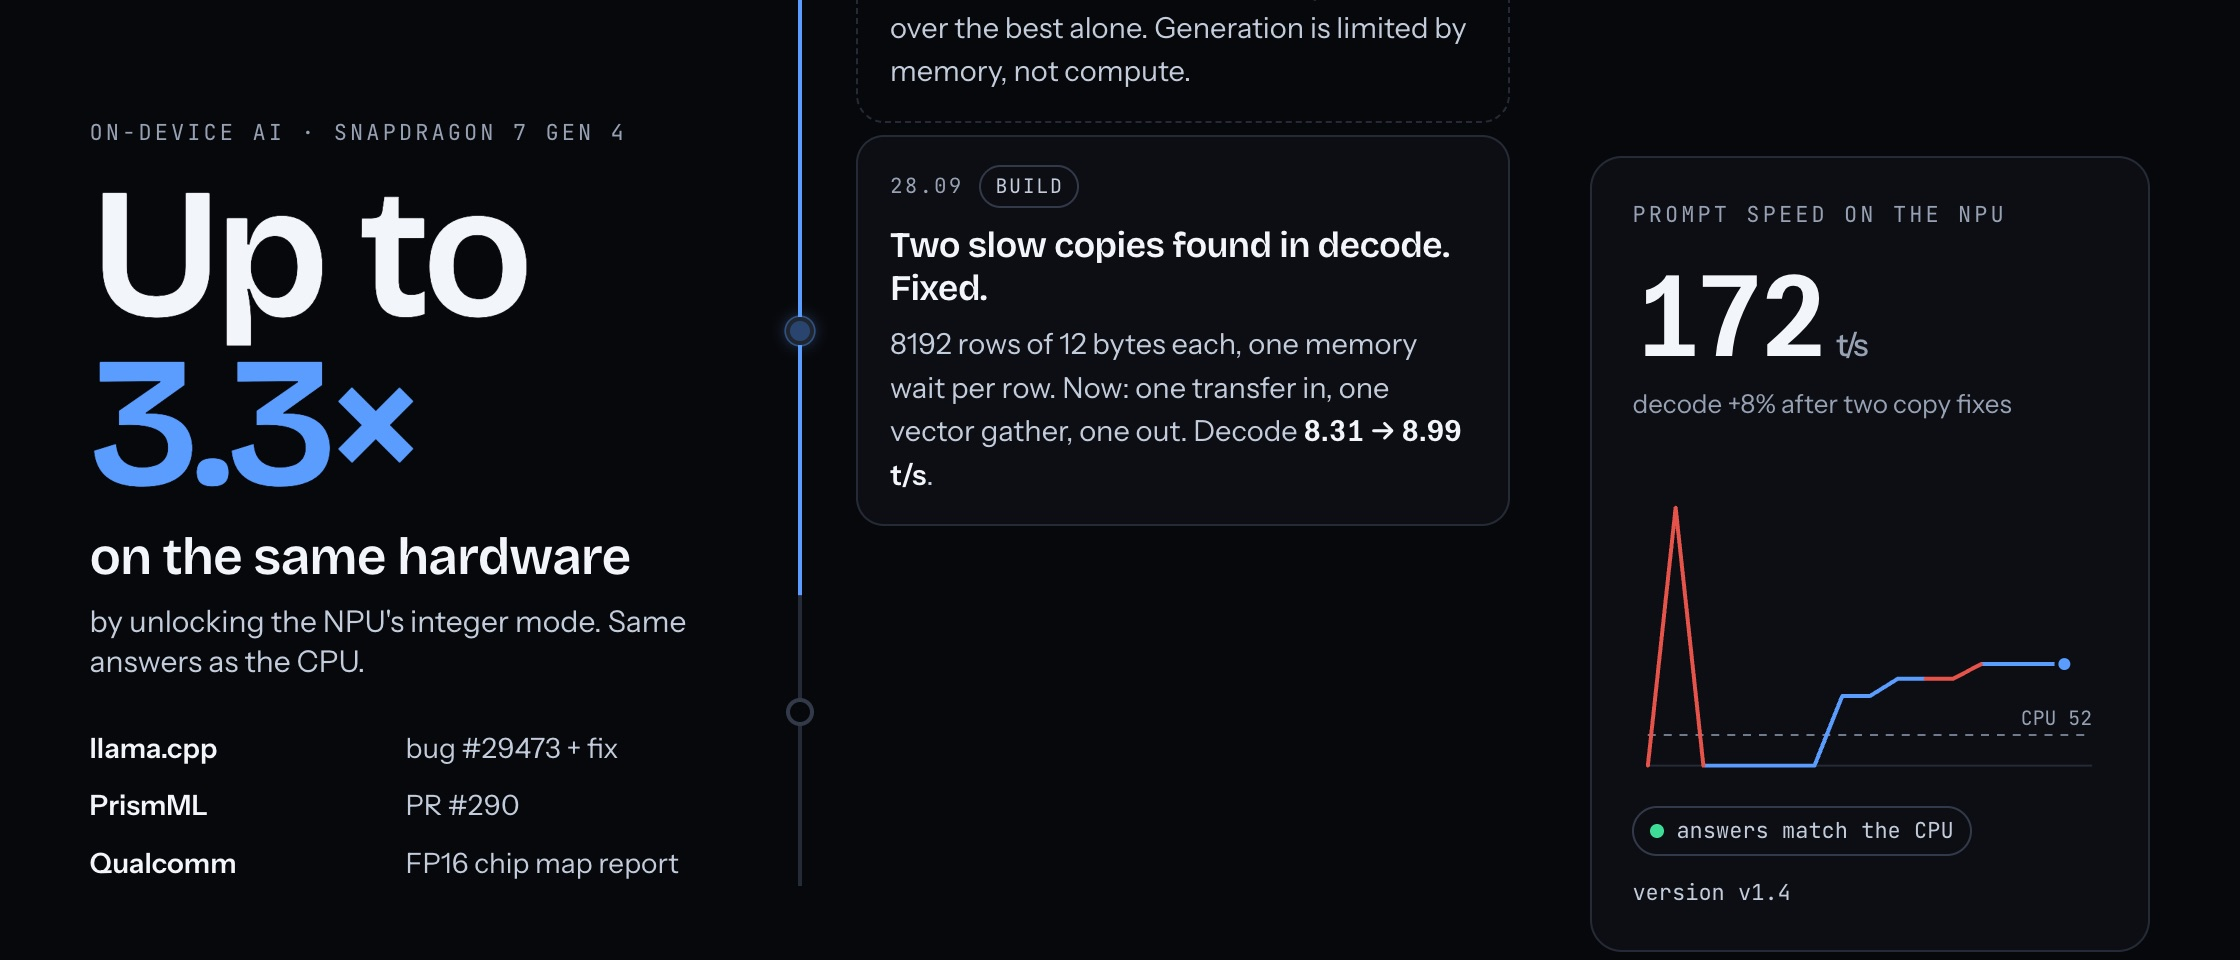
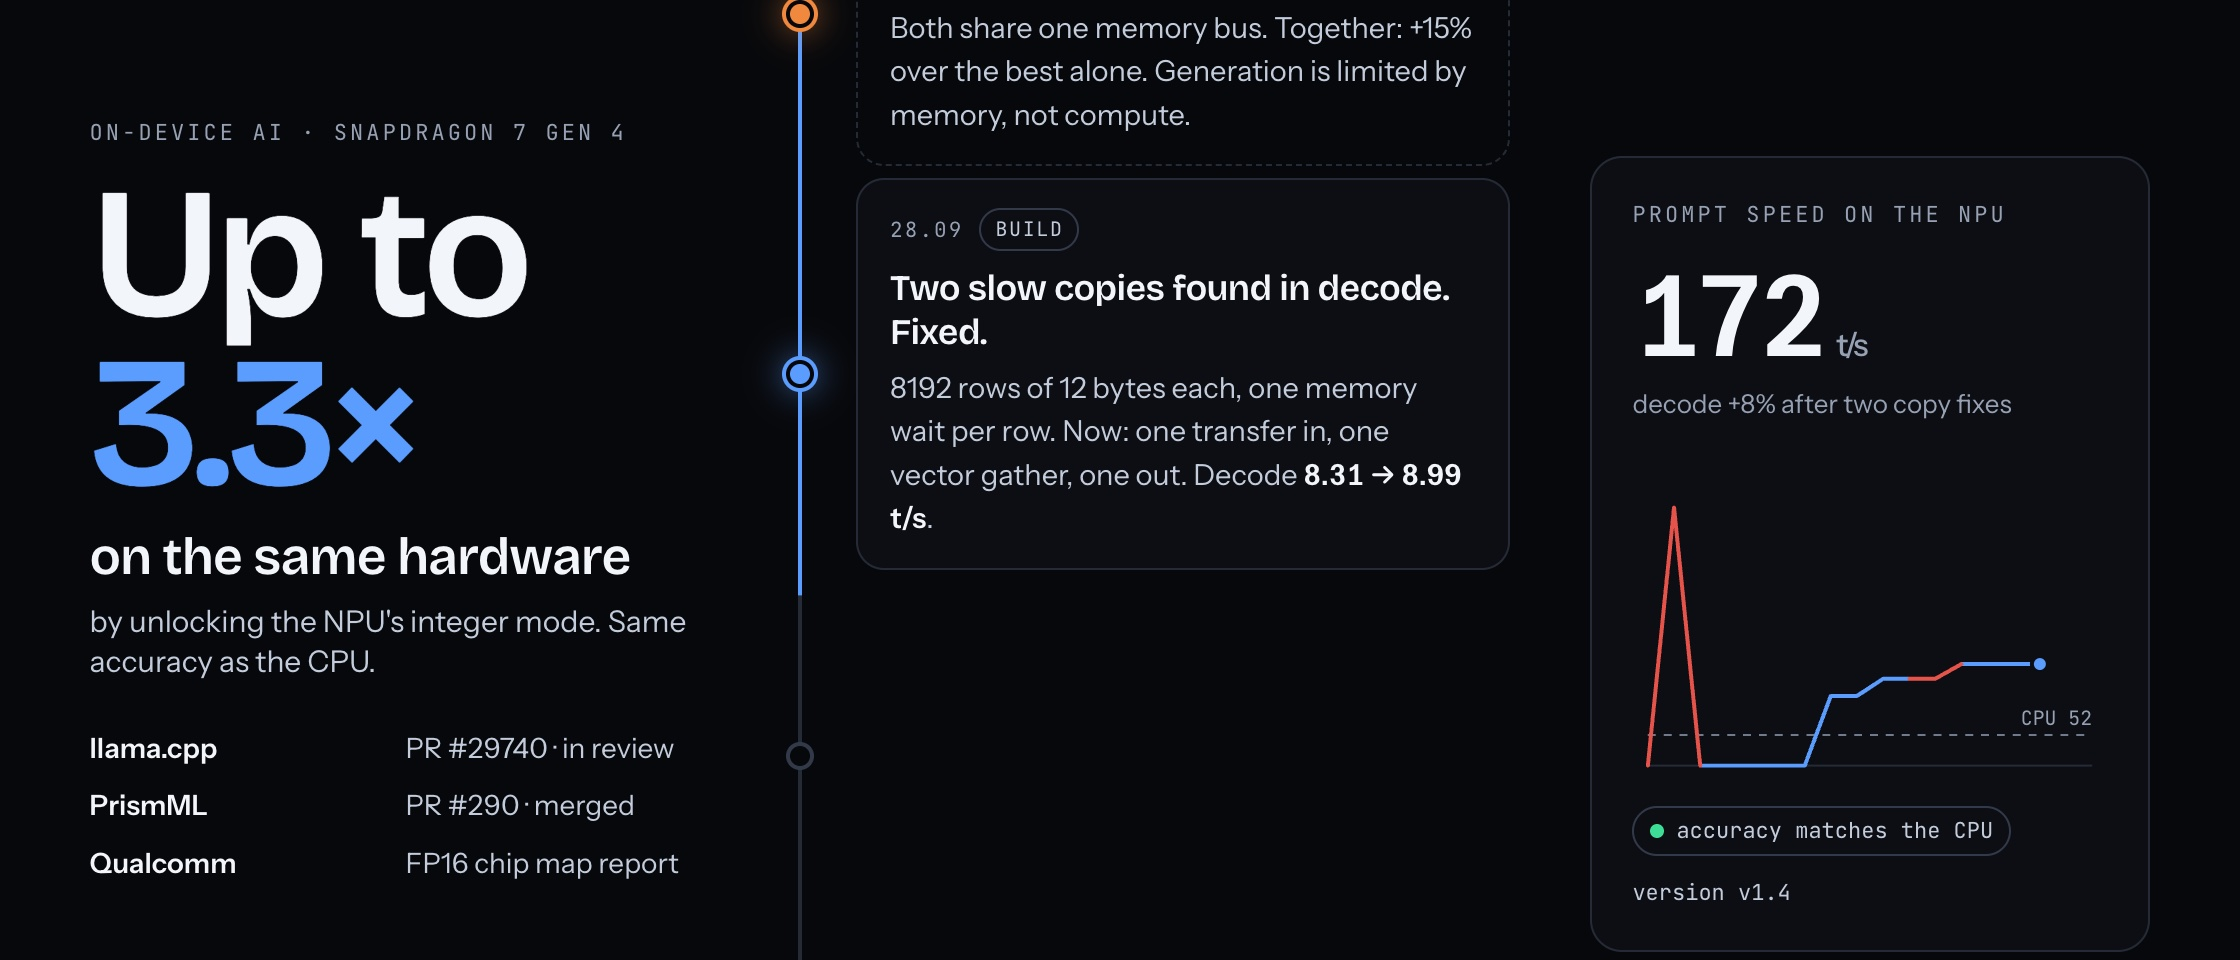
NPU case: upstream status (PR #29740 in review, PrismML #290 merged), accuracy wording
New timeline step 30.09-07.10: root cause confirmed by the Hexagon maintainer,
integer path in review as llama.cpp #29740, ternary kernel merged into PrismML,
decode slowdown found in an upstream copy rewrite. "Same answers" becomes
"same accuracy": perplexity matches, greedy text drifts on long prompts (added
to the limits). Card image re-rendered with the new labels.

diff --git a/npu/index.html b/npu/index.html
@@ -4,10 +4,10 @@
 <meta charset="utf-8">
 <meta name="viewport" content="width=device-width,initial-scale=1">
 <title>Integer NPU · Ruslan Karymov</title>
-<meta name="description" content="A phone NPU returned garbage in llama.cpp. Integer math made it 3.3× faster than the CPU at reading prompts, with the same answers.">
+<meta name="description" content="A phone NPU returned garbage in llama.cpp. Integer math made it 3.3× faster than the CPU at reading prompts, with the same accuracy.">
 <meta property="og:type" content="article">
 <meta property="og:title" content="The phone's NPU returned garbage. Now it reads prompts 3.3× faster than the CPU.">
-<meta property="og:description" content="Integer math on the Snapdragon 7 Gen 4 NPU in llama.cpp: 3.3× vs CPU, 2.3× vs GPU, same answers. The reasoning step by step, dead ends included.">
+<meta property="og:description" content="Integer math on the Snapdragon 7 Gen 4 NPU in llama.cpp: 3.3× vs CPU, 2.3× vs GPU, same accuracy. The reasoning step by step, dead ends included.">
 <meta property="og:url" content="https://karusrus.github.io/npu/">
 <meta property="og:image" content="https://karusrus.github.io/assets/w-npu.jpg">
 <meta name="twitter:card" content="summary_large_image">
@@ -217,17 +217,18 @@ footer{padding:56px 0 80px;color:var(--dim);font-size:14px}
   <div class="wrap">
     <div class="mono rv">Case · On-device AI · llama.cpp · Snapdragon 7 Gen 4</div>
     <h1 class="rv">The phone's NPU returned garbage. Now it reads prompts 3.3× faster than the CPU.</h1>
-    <p class="lede rv">On a Motorola Edge 70, llama.cpp's NPU backend produced nonsense. The chip's matrix unit has no FP16, and the software assumed it did. Instead of waiting for a fix, we asked what the unit <em>can</em> do: integer math. Three days later the NPU is the fastest way to read a prompt on that phone, with the same answers as the CPU.</p>
+    <p class="lede rv">On a Motorola Edge 70, llama.cpp's NPU backend produced nonsense. The chip's matrix unit has no FP16, and the software assumed it did. Instead of waiting for a fix, we asked what the unit <em>can</em> do: integer math. Three days later the NPU is the fastest way to read a prompt on that phone, with the same accuracy as the CPU.</p>
     <div class="tiles">
       <div class="tile hi rv"><div class="v" data-count="3.3" data-dec="1">0<small>×</small></div><div class="l">prompt speed vs the best CPU setting (Qwen3.5-4B, 512 tokens)</div></div>
       <div class="tile rv"><div class="v" data-count="2.3" data-dec="1">0<small>×</small></div><div class="l">vs the phone's GPU (Adreno 722, OpenCL)</div></div>
-      <div class="tile rv"><div class="v">10.84</div><div class="l">perplexity on the NPU, 10.85 on the CPU; greedy answers byte-identical</div></div>
+      <div class="tile rv"><div class="v">10.84</div><div class="l">perplexity on the NPU, 10.85 on the CPU: the same accuracy</div></div>
       <div class="tile rv"><div class="v" data-count="21" data-dec="0">0</div><div class="l">Snapdragon chips checked for FP16; 5 lack it</div></div>
     </div>
     <div class="links rv">
       <a class="btn" href="https://github.com/karusrus/npu-enablement">Code, data and logs →</a>
+      <a class="btn" href="https://github.com/ggml-org/llama.cpp/pull/29740">llama.cpp PR #29740 (in review) →</a>
       <a class="btn" href="https://github.com/ggml-org/llama.cpp/issues/29473">Upstream issue #29473 →</a>
-      <a class="btn" href="https://github.com/PrismML-Eng/llama.cpp/pull/290">Side contribution: PrismML PR #290 →</a>
+      <a class="btn" href="https://github.com/PrismML-Eng/llama.cpp/pull/290">PrismML PR #290 (merged) →</a>
     </div>
   </div>
 </header>
@@ -282,7 +283,7 @@ footer{padding:56px 0 80px;color:var(--dim);font-size:14px}
             <div class="dot"></div><div class="card"><div class="when">27.09 <span class="chip">Build</span> <span class="chip">Bug</span></div><h3>Qwen3.5's recurrent layers, eight tokens per pass. Perplexity: 69.5.</h3><p>All unit tests passed. Only the full quality run caught it: a decay product underflowed to 0/0 on fast-forgetting heads. Moved to log space.</p></div>
           </div>
           <div class="step r key" data-g="172" data-s="good" data-v="v1.3" data-note="same perplexity as the CPU">
-            <div class="dot"></div><div class="card"><div class="when">27.09 <span class="chip">Measure</span></div><h3>172 tokens/s. Perplexity 10.84 vs 10.85 on the CPU.</h3><p>3.3× the CPU, 2.3× the GPU, byte-identical greedy answers. The chip is detected at start-up; no settings needed.</p></div>
+            <div class="dot"></div><div class="card"><div class="when">27.09 <span class="chip">Measure</span></div><h3>172 tokens/s. Perplexity 10.84 vs 10.85 on the CPU.</h3><p>3.3× the CPU, 2.3× the GPU, byte-identical greedy answers on the test prompt. The chip is detected at start-up; no settings needed.</p></div>
           </div>
           <div class="step l dead" data-g="172" data-s="good" data-v="v1.3">
             <div class="card"><div class="when">27.09 <span class="chip">Dead end</span></div><h3>8-bit activations for 2× matrix speed</h3><p>The matrix unit got faster, the vector unit became the wall. Quality cost +0.3–1.6%. Not worth it.</p></div><div class="dot"></div>
@@ -295,6 +296,9 @@ footer{padding:56px 0 80px;color:var(--dim);font-size:14px}
           </div>
           <div class="step l" style="--dotc:var(--gate)" data-g="172" data-s="good" data-v="v1.4">
             <div class="card"><div class="when">28.09 <span class="chip">Ship</span></div><h3>Public repo, upstream discussion, PR prepared.</h3><p>Side result: a CPU kernel for PrismML's ternary models, 1.9× faster prompts on the same phone, opened as <a href="https://github.com/PrismML-Eng/llama.cpp/pull/290">PR #290</a>.</p></div><div class="dot"></div>
+          </div>
+          <div class="step r" data-g="172" data-s="good" data-v="v1.4">
+            <div class="dot"></div><div class="card"><div class="when">30.09–07.10 <span class="chip">Upstream</span></div><h3>Cause confirmed upstream. One PR merged.</h3><p>Qualcomm's Hexagon maintainer confirmed it in <a href="https://github.com/ggml-org/llama.cpp/issues/29473">#29473</a>: some lower-end v73 chips have no FP16 in the matrix unit. The integer path is in review as <a href="https://github.com/ggml-org/llama.cpp/pull/29740">llama.cpp PR #29740</a>. The ternary CPU kernel is merged into PrismML (<a href="https://github.com/PrismML-Eng/llama.cpp/pull/290">PR #290</a>). A re-measure of an upstream copy rewrite showed a decode slowdown on this chip; the maintainer is taking another look at our faster version.</p></div>
           </div>
         </div>
       </div>
@@ -400,22 +404,23 @@ footer{padding:56px 0 80px;color:var(--dim);font-size:14px}
       <ul class="limits">
         <li>The matrix unit speeds up prompts. Generation is memory-bound; the CPU is still slightly faster (Qwen3.5-4B: 9.7 vs 9.0 tokens/s).</li>
         <li>Only q4_0 weights run on the matrix unit, so mixed-quant models gain less (2.25×).</li>
-        <li>Tested on one phone. Not upstream yet: discussion in #29473.</li>
+        <li>On a 300-token prompt the greedy text follows the CPU for about 10 tokens, then picks a different word. Perplexity stays the same.</li>
+        <li>Tested on one phone. Not merged into llama.cpp yet: the integer path is in review as #29740.</li>
       </ul>
     </div>
   </div>
 </section>
 
-<footer><div class="wrap">Ruslan Karymov · AI Enablement &amp; Automation Lead · <a href="../">karusrus.github.io</a> · September 2026</div></footer>
+<footer><div class="wrap">Ruslan Karymov · AI Enablement &amp; Automation Lead · <a href="../">karusrus.github.io</a> · updated October 2026</div></footer>
 <div class="tip" id="tip"></div>
 <div class="shotpanel" aria-hidden="true">
   <div class="k">On-device AI · Snapdragon 7 Gen 4</div>
   <div class="big">Up to <span>3.3×</span></div>
   <div class="l1">on the same hardware</div>
-  <div class="l2">by unlocking the NPU's integer mode. Same answers as the CPU.</div>
+  <div class="l2">by unlocking the NPU's integer mode. Same accuracy as the CPU.</div>
   <div class="up">
-    <div><b>llama.cpp</b>bug #29473 + fix</div>
-    <div><b>PrismML</b>PR #290</div>
+    <div><b>llama.cpp</b>PR #29740 · in review</div>
+    <div><b>PrismML</b>PR #290 · merged</div>
     <div><b>Qualcomm</b>FP16 chip map report</div>
   </div>
 </div>
@@ -469,7 +474,7 @@ footer{padding:56px 0 80px;color:var(--dim);font-size:14px}
     target = g;
     const st = s ? s.dataset.s : 'idle';
     gs.className = 'state' + (st === 'bad' ? ' bad' : st === 'good' ? ' good' : '');
-    gs.querySelector('span').textContent = st === 'bad' ? 'wrong answers' : st === 'good' ? 'answers match the CPU' : (i < 0 ? 'not started' : 'investigating');
+    gs.querySelector('span').textContent = st === 'bad' ? 'wrong answers' : st === 'good' ? 'accuracy matches the CPU' : (i < 0 ? 'not started' : 'investigating');
     let note = i < 0 ? 'scroll the steps' : 'no working NPU path yet';
     for (let k = i; k >= 0; k--) { if (steps[k].dataset.note) { note = steps[k].dataset.note; break; } if (+steps[k].dataset.g === 0) break; }
     gn.textContent = note;

diff --git a/index.html b/index.html
@@ -421,14 +421,14 @@ footer{padding:60px 0 80px;color:var(--dim);font-size:13px;border-top:1px solid 
 
     <div class="grid five">
       <article class="pcard wide rv">
-        <div class="metric">v1.4 · open source · same answers as the CPU</div>
+        <div class="metric">v1.4 · open source · same accuracy as the CPU</div>
         <div class="win">
           <div class="bar"><i></i><i></i><i></i><span>llama.cpp · Snapdragon 7 Gen 4 NPU · integer HMX</span></div>
           <div class="shot"><img loading="lazy" decoding="async" src="assets/w-npu.jpg" alt="The reasoning trace from the NPU case: a step card reading 172 tokens per second with the same perplexity as the CPU, next to a gauge whose history shows a fake 437 t/s spike, a drop to zero and a climb past the CPU line"></div>
         </div>
         <div class="pbody">
           <h3>A phone NPU that "couldn't" run LLMs, running them</h3>
-          <p>On Snapdragon 7 Gen 4 the NPU returned garbage in llama.cpp: its matrix unit has no FP16 and the software assumed it did. I reframed the bug as the opportunity and, working with an AI coding agent, moved the math to integers. Prompt processing is now 3.3× faster than the CPU and 2.3× faster than the GPU, with the same perplexity and byte-identical answers. A 21-chip map shows which Snapdragons need it. The case page shows the reasoning step by step, dead ends included.</p>
+          <p>On Snapdragon 7 Gen 4 the NPU returned garbage in llama.cpp: its matrix unit has no FP16 and the software assumed it did. I reframed the bug as the opportunity and, working with an AI coding agent, moved the math to integers. Prompt processing is now 3.3× faster than the CPU and 2.3× faster than the GPU, with the same accuracy (perplexity) as the CPU. A kernel from the project is merged into PrismML; the main fix is in review upstream. A 21-chip map shows which Snapdragons need it. The case page shows the reasoning step by step, dead ends included.</p>
           <div class="tags"><span class="tag">llama.cpp</span><span class="tag">Hexagon NPU</span><span class="tag">On-device AI</span><span class="tag">Performance</span><span class="tag">AI pair work</span></div>
           <div class="plinks"><a href="npu/">Case →</a><a href="https://github.com/karusrus/npu-enablement">Repository →</a></div>
         </div>
